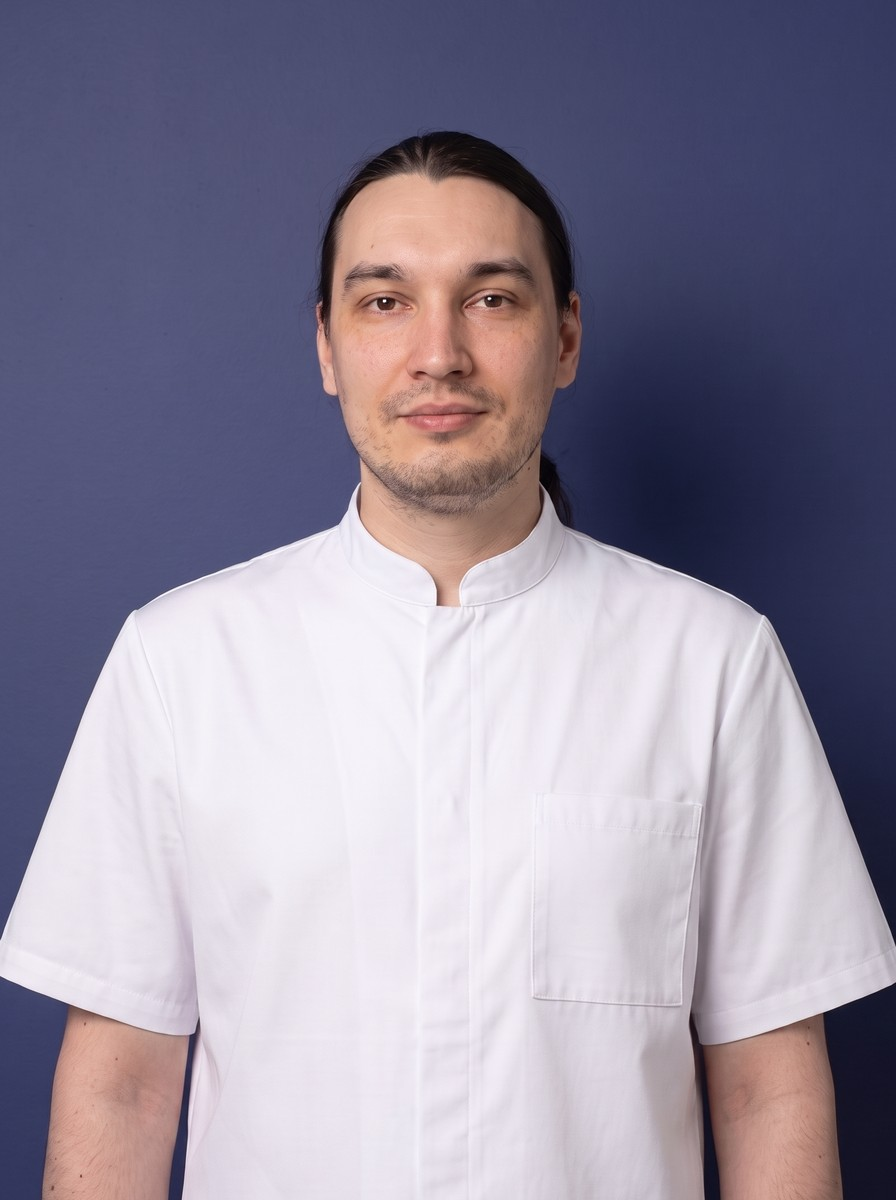
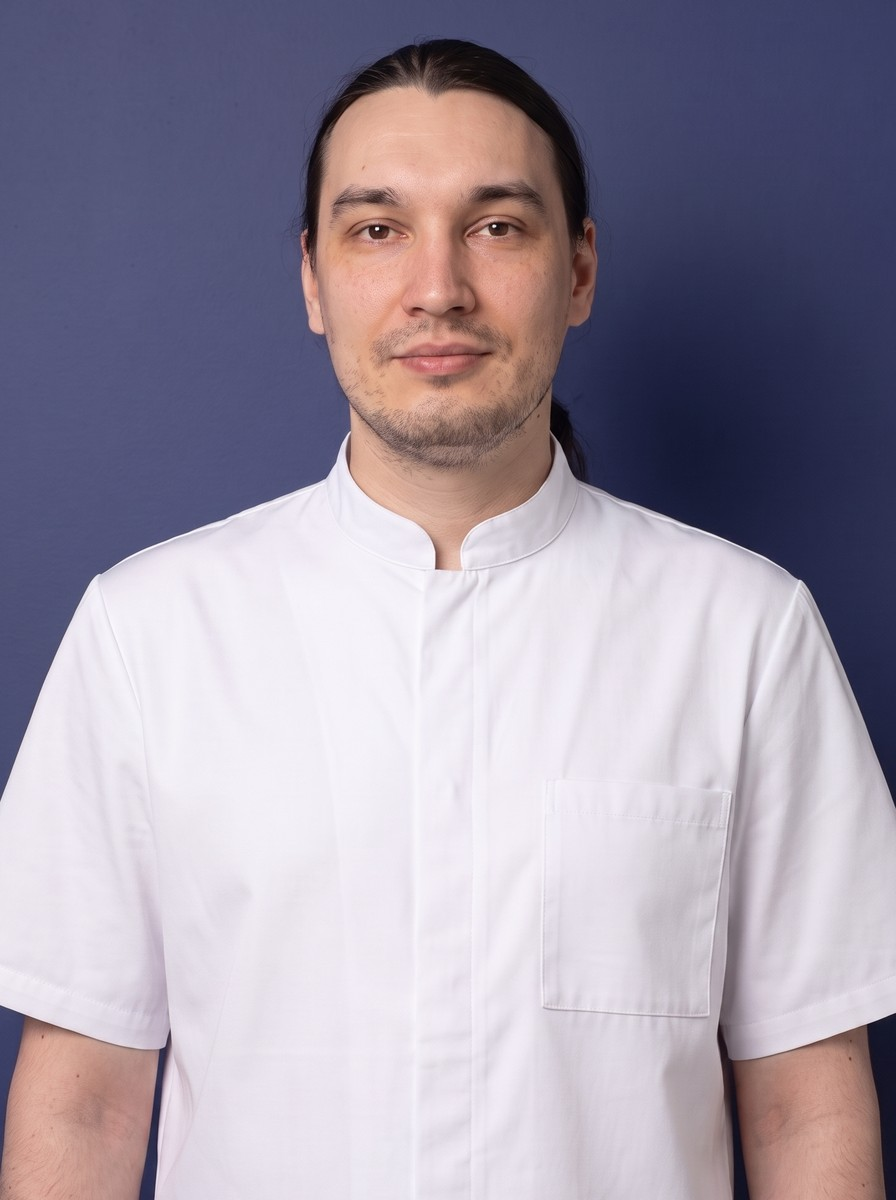
Единый кадр по образцу портрета Полины Олеговны
Кадр Полины принят за эталон композиции: макушка на 3,8% высоты кадра,
край короткого рукава на 86,9%. Все семь портретов пересобраны под эти
две линии — теперь у карточек одинаковая посадка фигуры.

Раньше кадр держался за линию глаз и масштаб лица, но при разной длине
шеи и торса низ кадра всё равно приходился у каждого на своё место:
у кого-то на пояс, у кого-то выше рукава. Держать одновременно и масштаб
лица, и обе линии композиции нельзя, и выбран второй вариант.

Портрет Анны кадрируется из исходного снимка, а не из расширенного:
в оригинале рукава попадают в кадр, и апскейла не требуется.

diff --git a/site/konsultatsiya.html b/site/konsultatsiya.html
@@ -32,7 +32,7 @@ try {
 <link rel="preconnect" href="https://fonts.googleapis.com">
 <link rel="preconnect" href="https://fonts.gstatic.com" crossorigin>
 <link href="https://fonts.googleapis.com/css2?family=Unbounded:wght@500;700;900&family=Manrope:wght@400;500;700;800&display=swap" rel="stylesheet">
-<link rel="stylesheet" href="styles.css?v=20260826d">
+<link rel="stylesheet" href="styles.css?v=20260826e">
 <script type="application/ld+json">{"@context": "https://schema.org", "@type": "Service", "name": "Приём и консультация стоматолога", "serviceType": "Приём и консультация стоматолога", "provider": {"@type": "Dentist", "name": "Честная стоматология", "address": {"@type": "PostalAddress", "streetAddress": "ул. Танкистов, 68", "addressLocality": "Пермь", "postalCode": "614012", "addressCountry": "RU"}, "telephone": "+79991152419"}, "areaServed": "Пермь", "offers": {"@type": "Offer", "price": "600", "priceCurrency": "RUB"}}</script>
 <script type="application/ld+json">{"@context": "https://schema.org", "@type": "FAQPage", "mainEntity": [{"@type": "Question", "name": "Нужно ли готовиться к консультации?", "acceptedAnswer": {"@type": "Answer", "text": "Нет, особой подготовки не требуется. Если есть снимки из других клиник — возьмите их с собой."}}, {"@type": "Question", "name": "Обязательно ли лечиться после консультации именно у вас?", "acceptedAnswer": {"@type": "Answer", "text": "Нет. План лечения и смета остаются у вас — решение вы принимаете без давления."}}, {"@type": "Question", "name": "Сколько действует смета?", "acceptedAnswer": {"@type": "Answer", "text": "Смета фиксируется в договоре до начала лечения и не меняется в процессе."}}]}</script>
 </head>
@@ -172,11 +172,11 @@ try {
 </div>
 
 <script>window.SERVICE_ID = "konsultatsiya";</script>
-<script src="db.js?v=20260826d"></script>
-<script src="md.js?v=20260826d"></script>
-<script src="services-data.js?v=20260826d"></script>
-<script src="ux.js?v=20260826d"></script>
-<script src="service.js?v=20260826d"></script>
-<script src="a11y.js?v=20260826d"></script>
+<script src="db.js?v=20260826e"></script>
+<script src="md.js?v=20260826e"></script>
+<script src="services-data.js?v=20260826e"></script>
+<script src="ux.js?v=20260826e"></script>
+<script src="service.js?v=20260826e"></script>
+<script src="a11y.js?v=20260826e"></script>
 </body>
 </html>

diff --git a/site/profgigiena.html b/site/profgigiena.html
@@ -32,7 +32,7 @@ try {
 <link rel="preconnect" href="https://fonts.googleapis.com">
 <link rel="preconnect" href="https://fonts.gstatic.com" crossorigin>
 <link href="https://fonts.googleapis.com/css2?family=Unbounded:wght@500;700;900&family=Manrope:wght@400;500;700;800&display=swap" rel="stylesheet">
-<link rel="stylesheet" href="styles.css?v=20260826d">
+<link rel="stylesheet" href="styles.css?v=20260826e">
 <script type="application/ld+json">{"@context": "https://schema.org", "@type": "Service", "name": "Профессиональная гигиена полости рта", "serviceType": "Профессиональная гигиена полости рта", "provider": {"@type": "Dentist", "name": "Честная стоматология", "address": {"@type": "PostalAddress", "streetAddress": "ул. Танкистов, 68", "addressLocality": "Пермь", "postalCode": "614012", "addressCountry": "RU"}, "telephone": "+79991152419"}, "areaServed": "Пермь", "offers": {"@type": "Offer", "price": "4900", "priceCurrency": "RUB"}}</script>
 <script type="application/ld+json">{"@context": "https://schema.org", "@type": "FAQPage", "mainEntity": [{"@type": "Question", "name": "Как часто нужно делать профгигиену?", "acceptedAnswer": {"@type": "Answer", "text": "Раз в полгода — регулярная гигиена в разы снижает риск кариеса."}}, {"@type": "Question", "name": "Есть ли акция?", "acceptedAnswer": {"@type": "Answer", "text": "Да, до 31.08.2026 чистка 1+1 для двоих — всего 6 990 ₽."}}, {"@type": "Question", "name": "Отбеливает ли чистка зубы?", "acceptedAnswer": {"@type": "Answer", "text": "Air-Flow возвращает естественный цвет эмали, убирая налёт от кофе, чая и курения."}}]}</script>
 </head>
@@ -172,11 +172,11 @@ try {
 </div>
 
 <script>window.SERVICE_ID = "profgigiena";</script>
-<script src="db.js?v=20260826d"></script>
-<script src="md.js?v=20260826d"></script>
-<script src="services-data.js?v=20260826d"></script>
-<script src="ux.js?v=20260826d"></script>
-<script src="service.js?v=20260826d"></script>
-<script src="a11y.js?v=20260826d"></script>
+<script src="db.js?v=20260826e"></script>
+<script src="md.js?v=20260826e"></script>
+<script src="services-data.js?v=20260826e"></script>
+<script src="ux.js?v=20260826e"></script>
+<script src="service.js?v=20260826e"></script>
+<script src="a11y.js?v=20260826e"></script>
 </body>
 </html>

diff --git a/site/protezirovanie.html b/site/protezirovanie.html
@@ -32,7 +32,7 @@ try {
 <link rel="preconnect" href="https://fonts.googleapis.com">
 <link rel="preconnect" href="https://fonts.gstatic.com" crossorigin>
 <link href="https://fonts.googleapis.com/css2?family=Unbounded:wght@500;700;900&family=Manrope:wght@400;500;700;800&display=swap" rel="stylesheet">
-<link rel="stylesheet" href="styles.css?v=20260826d">
+<link rel="stylesheet" href="styles.css?v=20260826e">
 <script type="application/ld+json">{"@context": "https://schema.org", "@type": "Service", "name": "Протезирование зубов", "serviceType": "Протезирование зубов", "provider": {"@type": "Dentist", "name": "Честная стоматология", "address": {"@type": "PostalAddress", "streetAddress": "ул. Танкистов, 68", "addressLocality": "Пермь", "postalCode": "614012", "addressCountry": "RU"}, "telephone": "+79991152419"}, "areaServed": "Пермь", "offers": {"@type": "Offer", "price": "10440", "priceCurrency": "RUB"}}</script>
 <script type="application/ld+json">{"@context": "https://schema.org", "@type": "FAQPage", "mainEntity": [{"@type": "Question", "name": "Что значит «под ключ»?", "acceptedAnswer": {"@type": "Answer", "text": "В цену включены все этапы: подготовка, слепки, изготовление, примерка и фиксация."}}, {"@type": "Question", "name": "Какая коронка лучше?", "acceptedAnswer": {"@type": "Answer", "text": "Цельнолитая — бюджетный вариант для жевательных зубов, циркониевая — эстетичнее, по акции 24 500 ₽."}}, {"@type": "Question", "name": "Больно ли ставить коронку?", "acceptedAnswer": {"@type": "Answer", "text": "Все этапы проходят с анестезией."}}]}</script>
 </head>
@@ -172,11 +172,11 @@ try {
 </div>
 
 <script>window.SERVICE_ID = "protezirovanie";</script>
-<script src="db.js?v=20260826d"></script>
-<script src="md.js?v=20260826d"></script>
-<script src="services-data.js?v=20260826d"></script>
-<script src="ux.js?v=20260826d"></script>
-<script src="service.js?v=20260826d"></script>
-<script src="a11y.js?v=20260826d"></script>
+<script src="db.js?v=20260826e"></script>
+<script src="md.js?v=20260826e"></script>
+<script src="services-data.js?v=20260826e"></script>
+<script src="ux.js?v=20260826e"></script>
+<script src="service.js?v=20260826e"></script>
+<script src="a11y.js?v=20260826e"></script>
 </body>
 </html>

diff --git a/site/lechenie-kariesa.html b/site/lechenie-kariesa.html
@@ -32,7 +32,7 @@ try {
 <link rel="preconnect" href="https://fonts.googleapis.com">
 <link rel="preconnect" href="https://fonts.gstatic.com" crossorigin>
 <link href="https://fonts.googleapis.com/css2?family=Unbounded:wght@500;700;900&family=Manrope:wght@400;500;700;800&display=swap" rel="stylesheet">
-<link rel="stylesheet" href="styles.css?v=20260826d">
+<link rel="stylesheet" href="styles.css?v=20260826e">
 <script type="application/ld+json">{"@context": "https://schema.org", "@type": "Service", "name": "Лечение кариеса", "serviceType": "Лечение кариеса", "provider": {"@type": "Dentist", "name": "Честная стоматология", "address": {"@type": "PostalAddress", "streetAddress": "ул. Танкистов, 68", "addressLocality": "Пермь", "postalCode": "614012", "addressCountry": "RU"}, "telephone": "+79991152419"}, "areaServed": "Пермь", "offers": {"@type": "Offer", "price": "4000", "priceCurrency": "RUB"}}</script>
 <script type="application/ld+json">{"@context": "https://schema.org", "@type": "FAQPage", "mainEntity": [{"@type": "Question", "name": "Больно ли лечить кариес?", "acceptedAnswer": {"@type": "Answer", "text": "Нет, используем современную анестезию — пациенты не чувствуют даже укол."}}, {"@type": "Question", "name": "Действует ли скидка?", "acceptedAnswer": {"@type": "Answer", "text": "Да, до 31.08.2026 — скидка 15% на лечение кариеса при прохождении профгигиены."}}, {"@type": "Question", "name": "Что будет, если кариес не лечить?", "acceptedAnswer": {"@type": "Answer", "text": "Кариес перейдёт в пульпит — лечение будет дольше и дороже."}}]}</script>
 </head>
@@ -172,11 +172,11 @@ try {
 </div>
 
 <script>window.SERVICE_ID = "lechenie-kariesa";</script>
-<script src="db.js?v=20260826d"></script>
-<script src="md.js?v=20260826d"></script>
-<script src="services-data.js?v=20260826d"></script>
-<script src="ux.js?v=20260826d"></script>
-<script src="service.js?v=20260826d"></script>
-<script src="a11y.js?v=20260826d"></script>
+<script src="db.js?v=20260826e"></script>
+<script src="md.js?v=20260826e"></script>
+<script src="services-data.js?v=20260826e"></script>
+<script src="ux.js?v=20260826e"></script>
+<script src="service.js?v=20260826e"></script>
+<script src="a11y.js?v=20260826e"></script>
 </body>
 </html>

diff --git a/site/restavratsiya.html b/site/restavratsiya.html
@@ -32,7 +32,7 @@ try {
 <link rel="preconnect" href="https://fonts.googleapis.com">
 <link rel="preconnect" href="https://fonts.gstatic.com" crossorigin>
 <link href="https://fonts.googleapis.com/css2?family=Unbounded:wght@500;700;900&family=Manrope:wght@400;500;700;800&display=swap" rel="stylesheet">
-<link rel="stylesheet" href="styles.css?v=20260826d">
+<link rel="stylesheet" href="styles.css?v=20260826e">
 <script type="application/ld+json">{"@context": "https://schema.org", "@type": "Service", "name": "Эстетическая реставрация зубов", "serviceType": "Эстетическая реставрация зубов", "provider": {"@type": "Dentist", "name": "Честная стоматология", "address": {"@type": "PostalAddress", "streetAddress": "ул. Танкистов, 68", "addressLocality": "Пермь", "postalCode": "614012", "addressCountry": "RU"}, "telephone": "+79991152419"}, "areaServed": "Пермь", "offers": {"@type": "Offer", "price": "3500", "priceCurrency": "RUB"}}</script>
 <script type="application/ld+json">{"@context": "https://schema.org", "@type": "FAQPage", "mainEntity": [{"@type": "Question", "name": "Чем реставрация отличается от коронки?", "acceptedAnswer": {"@type": "Answer", "text": "Реставрация делается композитом за один визит и не требует обточки зуба."}}, {"@type": "Question", "name": "Сколько держится реставрация?", "acceptedAnswer": {"@type": "Answer", "text": "При правильном уходе — 5–10 лет."}}, {"@type": "Question", "name": "Можно ли закрыть щель между передними зубами?", "acceptedAnswer": {"@type": "Answer", "text": "Да, это решается за один визит."}}]}</script>
 </head>
@@ -172,11 +172,11 @@ try {
 </div>
 
 <script>window.SERVICE_ID = "restavratsiya";</script>
-<script src="db.js?v=20260826d"></script>
-<script src="md.js?v=20260826d"></script>
-<script src="services-data.js?v=20260826d"></script>
-<script src="ux.js?v=20260826d"></script>
-<script src="service.js?v=20260826d"></script>
-<script src="a11y.js?v=20260826d"></script>
+<script src="db.js?v=20260826e"></script>
+<script src="md.js?v=20260826e"></script>
+<script src="services-data.js?v=20260826e"></script>
+<script src="ux.js?v=20260826e"></script>
+<script src="service.js?v=20260826e"></script>
+<script src="a11y.js?v=20260826e"></script>
 </body>
 </html>

diff --git a/site/udalenie-zubov.html b/site/udalenie-zubov.html
@@ -32,7 +32,7 @@ try {
 <link rel="preconnect" href="https://fonts.googleapis.com">
 <link rel="preconnect" href="https://fonts.gstatic.com" crossorigin>
 <link href="https://fonts.googleapis.com/css2?family=Unbounded:wght@500;700;900&family=Manrope:wght@400;500;700;800&display=swap" rel="stylesheet">
-<link rel="stylesheet" href="styles.css?v=20260826d">
+<link rel="stylesheet" href="styles.css?v=20260826e">
 <script type="application/ld+json">{"@context": "https://schema.org", "@type": "Service", "name": "Удаление зубов", "serviceType": "Удаление зубов", "provider": {"@type": "Dentist", "name": "Честная стоматология", "address": {"@type": "PostalAddress", "streetAddress": "ул. Танкистов, 68", "addressLocality": "Пермь", "postalCode": "614012", "addressCountry": "RU"}, "telephone": "+79991152419"}, "areaServed": "Пермь", "offers": {"@type": "Offer", "price": "2500", "priceCurrency": "RUB"}}</script>
 <script type="application/ld+json">{"@context": "https://schema.org", "@type": "FAQPage", "mainEntity": [{"@type": "Question", "name": "Вы сразу предложите удалить зуб?", "acceptedAnswer": {"@type": "Answer", "text": "Нет, наш принцип — сохранять зубы, которые можно вылечить."}}, {"@type": "Question", "name": "Принимаете ли вы с острой болью?", "acceptedAnswer": {"@type": "Answer", "text": "Да, есть неотложка для взрослых — постараемся принять в день обращения."}}, {"@type": "Question", "name": "Что делать после удаления?", "acceptedAnswer": {"@type": "Answer", "text": "Врач даст подробные рекомендации; при вопросах — звоните."}}]}</script>
 </head>
@@ -172,11 +172,11 @@ try {
 </div>
 
 <script>window.SERVICE_ID = "udalenie-zubov";</script>
-<script src="db.js?v=20260826d"></script>
-<script src="md.js?v=20260826d"></script>
-<script src="services-data.js?v=20260826d"></script>
-<script src="ux.js?v=20260826d"></script>
-<script src="service.js?v=20260826d"></script>
-<script src="a11y.js?v=20260826d"></script>
+<script src="db.js?v=20260826e"></script>
+<script src="md.js?v=20260826e"></script>
+<script src="services-data.js?v=20260826e"></script>
+<script src="ux.js?v=20260826e"></script>
+<script src="service.js?v=20260826e"></script>
+<script src="a11y.js?v=20260826e"></script>
 </body>
 </html>

diff --git a/site/index.html b/site/index.html
@@ -80,10 +80,10 @@ try {
 <link rel="preconnect" href="https://fonts.googleapis.com">
 <link rel="preconnect" href="https://fonts.gstatic.com" crossorigin>
 <link href="https://fonts.googleapis.com/css2?family=Unbounded:wght@500;700;900&family=Manrope:wght@400;500;700;800&family=Cairo:wght@400;600;800&display=swap" rel="stylesheet">
-<link rel="stylesheet" href="styles.css?v=20260826d">
-<link rel="stylesheet" href="effects.css?v=20260826d">
-<link rel="stylesheet" href="cards-fx.css?v=20260826d">
-<link rel="stylesheet" href="polish.css?v=20260826d">
+<link rel="stylesheet" href="styles.css?v=20260826e">
+<link rel="stylesheet" href="effects.css?v=20260826e">
+<link rel="stylesheet" href="cards-fx.css?v=20260826e">
+<link rel="stylesheet" href="polish.css?v=20260826e">
 </head>
 <body data-theme="deep">
 <a class="skip-link" href="#care">Перейти к содержанию</a>
@@ -660,20 +660,20 @@ try {
   </div>
 </div>
 
-<script src="i18n.js?v=20260826d"></script>
-<script src="db.js?v=20260826d"></script>
-<script src="auth.js?v=20260826d"></script>
-<script src="md.js?v=20260826d"></script>
-<script src="ux.js?v=20260826d"></script>
-<script src="app.js?v=20260826d"></script>
-<script src="water.js?v=20260826d" defer></script>
-<script src="effects.js?v=20260826d" defer></script>
-<script src="teeth-map.js?v=20260826d" defer></script>
-<script src="hero-seq.js?v=20260826d" defer></script>
-<script src="tour.js?v=20260826d" defer></script>
-<script src="cards-fx.js?v=20260826d" defer></script>
-<script src="motion-fx.js?v=20260826d" defer></script>
-<script src="polish.js?v=20260826d" defer></script>
-<script src="a11y.js?v=20260826d"></script>
+<script src="i18n.js?v=20260826e"></script>
+<script src="db.js?v=20260826e"></script>
+<script src="auth.js?v=20260826e"></script>
+<script src="md.js?v=20260826e"></script>
+<script src="ux.js?v=20260826e"></script>
+<script src="app.js?v=20260826e"></script>
+<script src="water.js?v=20260826e" defer></script>
+<script src="effects.js?v=20260826e" defer></script>
+<script src="teeth-map.js?v=20260826e" defer></script>
+<script src="hero-seq.js?v=20260826e" defer></script>
+<script src="tour.js?v=20260826e" defer></script>
+<script src="cards-fx.js?v=20260826e" defer></script>
+<script src="motion-fx.js?v=20260826e" defer></script>
+<script src="polish.js?v=20260826e" defer></script>
+<script src="a11y.js?v=20260826e"></script>
 </body>
 </html>

diff --git a/site/admin.html b/site/admin.html
@@ -20,8 +20,8 @@ try { if (!localStorage.getItem("chestom_session")) location.replace("login.html
 <link rel="preconnect" href="https://fonts.googleapis.com">
 <link rel="preconnect" href="https://fonts.gstatic.com" crossorigin>
 <link href="https://fonts.googleapis.com/css2?family=Unbounded:wght@500;700&family=Manrope:wght@400;500;700;800&display=swap" rel="stylesheet">
-<link rel="stylesheet" href="styles.css?v=20260826d">
-<link rel="stylesheet" href="admin.css?v=20260826d">
+<link rel="stylesheet" href="styles.css?v=20260826e">
+<link rel="stylesheet" href="admin.css?v=20260826e">
 </head>
 <body class="adm-body">
 
@@ -302,10 +302,10 @@ try { if (!localStorage.getItem("chestom_session")) location.replace("login.html
   </div>
 </div>
 
-<script src="db.js?v=20260826d"></script>
-<script src="auth.js?v=20260826d"></script>
-<script src="md.js?v=20260826d"></script>
-<script src="admin.js?v=20260826d"></script>
-<script src="a11y.js?v=20260826d"></script>
+<script src="db.js?v=20260826e"></script>
+<script src="auth.js?v=20260826e"></script>
+<script src="md.js?v=20260826e"></script>
+<script src="admin.js?v=20260826e"></script>
+<script src="a11y.js?v=20260826e"></script>
 </body>
 </html>

diff --git a/site/_service_template.html b/site/_service_template.html
@@ -27,7 +27,7 @@ try {
 <link rel="preconnect" href="https://fonts.googleapis.com">
 <link rel="preconnect" href="https://fonts.gstatic.com" crossorigin>
 <link href="https://fonts.googleapis.com/css2?family=Unbounded:wght@500;700;900&family=Manrope:wght@400;500;700;800&display=swap" rel="stylesheet">
-<link rel="stylesheet" href="styles.css?v=20260826d">
+<link rel="stylesheet" href="styles.css?v=20260826e">
 <script type="application/ld+json">{{LD_SERVICE}}</script>
 <script type="application/ld+json">{{LD_FAQ}}</script>
 </head>
@@ -167,11 +167,11 @@ try {
 </div>
 
 <script>window.SERVICE_ID = "{{SLUG}}";</script>
-<script src="db.js?v=20260826d"></script>
-<script src="md.js?v=20260826d"></script>
-<script src="services-data.js?v=20260826d"></script>
-<script src="ux.js?v=20260826d"></script>
-<script src="service.js?v=20260826d"></script>
-<script src="a11y.js?v=20260826d"></script>
+<script src="db.js?v=20260826e"></script>
+<script src="md.js?v=20260826e"></script>
+<script src="services-data.js?v=20260826e"></script>
+<script src="ux.js?v=20260826e"></script>
+<script src="service.js?v=20260826e"></script>
+<script src="a11y.js?v=20260826e"></script>
 </body>
 </html>

diff --git a/site/404.html b/site/404.html
@@ -19,7 +19,7 @@ try {
 <link rel="preconnect" href="https://fonts.googleapis.com">
 <link rel="preconnect" href="https://fonts.gstatic.com" crossorigin>
 <link href="https://fonts.googleapis.com/css2?family=Unbounded:wght@700&family=Manrope:wght@400;700&display=swap" rel="stylesheet">
-<link rel="stylesheet" href="styles.css?v=20260826d">
+<link rel="stylesheet" href="styles.css?v=20260826e">
 <style>
   .nf { min-height: 100svh; display: flex; flex-direction: column; align-items: center; justify-content: center; text-align: center; padding: 24px; gap: 18px; }
   .nf__tooth { width: 120px; opacity: 0.85; filter: drop-shadow(0 16px 50px rgba(122, 108, 240,0.35)); animation: nfFloat 4s ease-in-out infinite alternate; }
@@ -40,6 +40,6 @@ try {
   <a class="btn btn--primary btn--lg" href="index.html">На главную</a>
   <a class="btn btn--ghost" href="tel:+79991152419">Позвонить: +7 999 115-24-19</a>
 </main>
-<script src="a11y.js?v=20260826d"></script>
+<script src="a11y.js?v=20260826e"></script>
 </body>
 </html>

diff --git a/site/doctor.html b/site/doctor.html
@@ -27,7 +27,7 @@ try {
 <link rel="preconnect" href="https://fonts.googleapis.com">
 <link rel="preconnect" href="https://fonts.gstatic.com" crossorigin>
 <link href="https://fonts.googleapis.com/css2?family=Unbounded:wght@500;700;900&family=Manrope:wght@400;500;700;800&display=swap" rel="stylesheet">
-<link rel="stylesheet" href="styles.css?v=20260826d">
+<link rel="stylesheet" href="styles.css?v=20260826e">
 </head>
 <body>
 
@@ -138,10 +138,10 @@ try {
   </div>
 </div>
 
-<script src="db.js?v=20260826d"></script>
-<script src="md.js?v=20260826d"></script>
-<script src="ux.js?v=20260826d"></script>
-<script src="doctor.js?v=20260826d"></script>
-<script src="a11y.js?v=20260826d"></script>
+<script src="db.js?v=20260826e"></script>
+<script src="md.js?v=20260826e"></script>
+<script src="ux.js?v=20260826e"></script>
+<script src="doctor.js?v=20260826e"></script>
+<script src="a11y.js?v=20260826e"></script>
 </body>
 </html>

diff --git a/site/login.html b/site/login.html
@@ -19,7 +19,7 @@ try {
 <link rel="preconnect" href="https://fonts.googleapis.com">
 <link rel="preconnect" href="https://fonts.gstatic.com" crossorigin>
 <link href="https://fonts.googleapis.com/css2?family=Unbounded:wght@500;700&family=Manrope:wght@400;500;700;800&display=swap" rel="stylesheet">
-<link rel="stylesheet" href="styles.css?v=20260826d">
+<link rel="stylesheet" href="styles.css?v=20260826e">
 <style>
   .login {
     min-height: 100svh; display: flex; align-items: center; justify-content: center;
@@ -88,8 +88,8 @@ try {
   </form>
 </main>
 
-<script src="db.js?v=20260826d"></script>
-<script src="auth.js?v=20260826d"></script>
+<script src="db.js?v=20260826e"></script>
+<script src="auth.js?v=20260826e"></script>
 <script>
 (() => {
   "use strict";
@@ -111,6 +111,6 @@ try {
   });
 })();
 </script>
-<script src="a11y.js?v=20260826d"></script>
+<script src="a11y.js?v=20260826e"></script>
 </body>
 </html>
